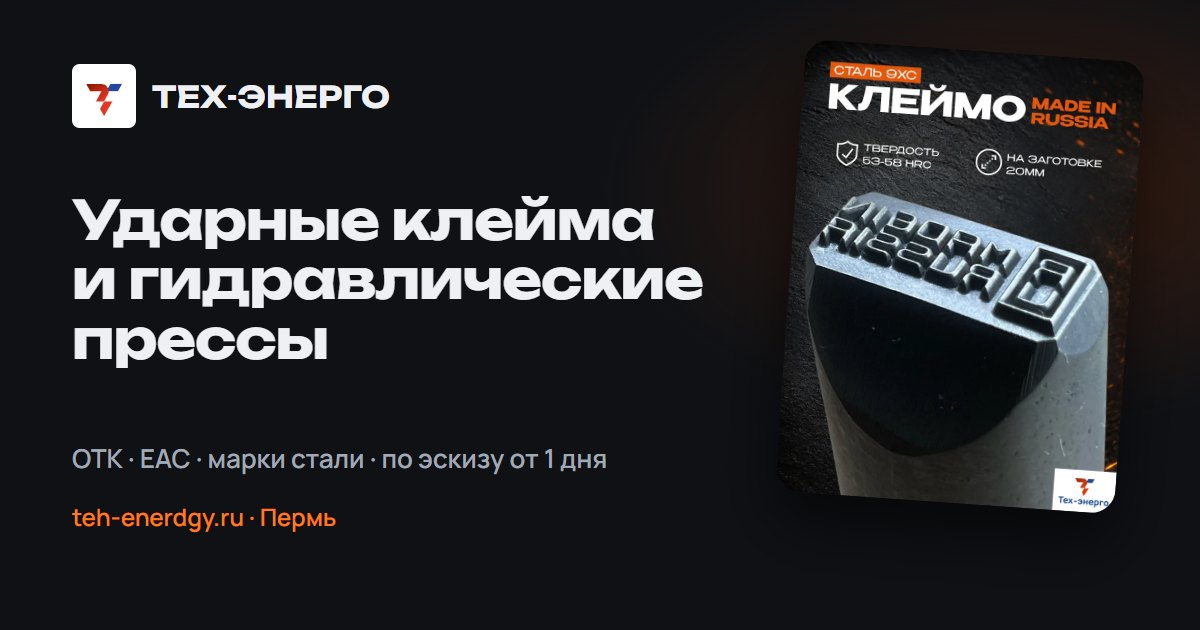
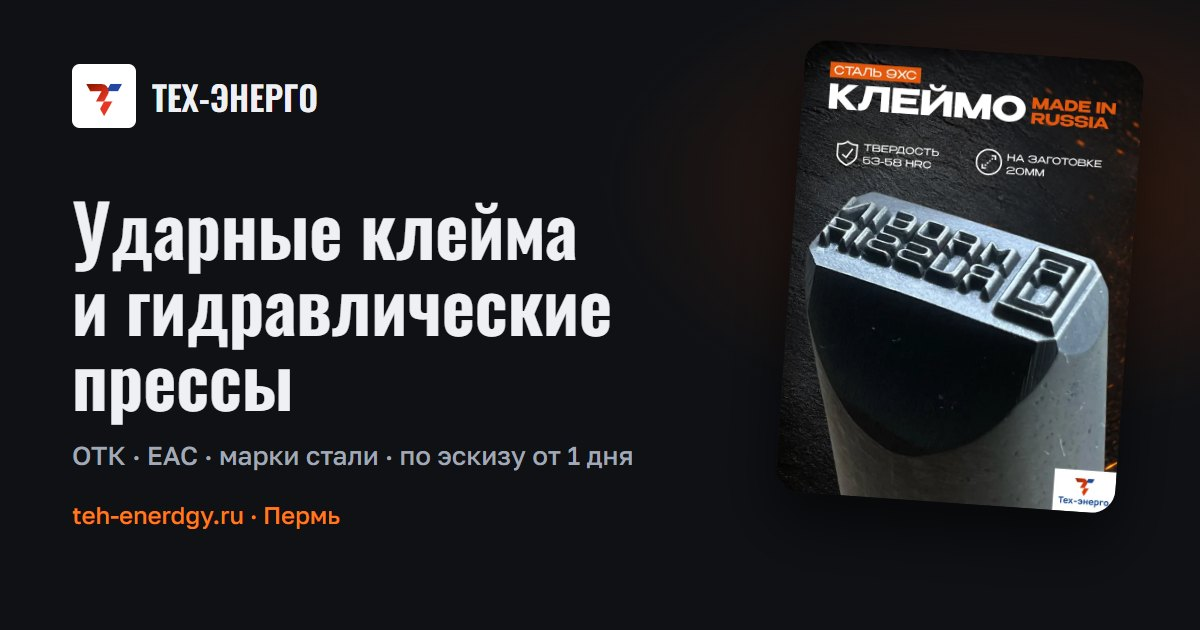
Шрифты Oswald + Golos Text вместо Unbounded/Manrope; MAX вместо WhatsApp
- Заголовки — Oswald, текст — Golos Text; подстроены кегли и трекинг, OG-картинка пересобрана
- Кнопки WhatsApp заменены на MAX, порядок: MAX, затем Telegram
- Ссылка MAX временно ведёт на max.ru (TODO в data/company.json)

Changed region(s): [[0.0617, 0.3016, 0.5858, 0.754], [0.1233, 0.1206, 0.3392, 0.181], [0.0617, 0.7841, 0.2775, 0.8444]]

diff --git a/src/css/style.css b/src/css/style.css
@@ -22,8 +22,8 @@
   --r-lg: 28px;
   --shadow: 0 1px 2px rgba(16, 20, 28, .04), 0 8px 24px -8px rgba(16, 20, 28, .12);
   --shadow-lg: 0 30px 60px -20px rgba(16, 20, 28, .35);
-  --f-head: 'Unbounded', 'Manrope', system-ui, sans-serif;
-  --f-body: 'Manrope', system-ui, -apple-system, 'Segoe UI', Roboto, sans-serif;
+  --f-head: 'Oswald', 'Arial Narrow', system-ui, sans-serif;
+  --f-body: 'Golos Text', system-ui, -apple-system, 'Segoe UI', Roboto, sans-serif;
   --wrap: 1240px;
   --hdr: 72px;
 }
@@ -36,10 +36,10 @@ img { max-width: 100%; height: auto; display: block; }
 a { color: inherit; }
 button, input, select, textarea { font: inherit; color: inherit; }
 svg { width: 1em; height: 1em; fill: none; stroke: currentColor; stroke-width: 2; stroke-linecap: round; stroke-linejoin: round; flex: none; }
-h1, h2, h3 { font-family: var(--f-head); font-weight: 600; line-height: 1.12; letter-spacing: -.02em; margin: 0 0 .5em; }
-h1 { font-size: clamp(32px, 4.6vw, 58px); }
-h2 { font-size: clamp(26px, 3.4vw, 42px); }
-h3 { font-size: 19px; letter-spacing: -.01em; }
+h1, h2, h3 { font-family: var(--f-head); font-weight: 600; line-height: 1.08; letter-spacing: .005em; margin: 0 0 .5em; }
+h1 { font-size: clamp(36px, 5.4vw, 72px); }
+h2 { font-size: clamp(30px, 3.8vw, 50px); }
+h3 { font-size: 21px; font-weight: 500; letter-spacing: .01em; }
 p { margin: 0 0 1em; }
 :focus-visible { outline: 3px solid var(--blue-l); outline-offset: 3px; border-radius: 6px; }
 .wrap { width: 100%; max-width: var(--wrap); margin: 0 auto; padding: 0 24px; }
@@ -62,7 +62,7 @@ p { margin: 0 0 1em; }
 .btn--ozon { background: var(--ozon); }
 .btn--ozon:hover { background: #0047cc; box-shadow: 0 10px 24px -10px rgba(0, 91, 255, .7); }
 .btn--tg { background: #2aa5e0; } .btn--tg:hover { background: #1b8fc7; box-shadow: none; }
-.btn--wa { background: #25b25c; } .btn--wa:hover { background: #1c964c; box-shadow: none; }
+.btn--max { background: #5b4cf0; } .btn--max:hover { background: #4636d6; box-shadow: none; }
 .link { background: none; border: 0; padding: 0; color: var(--red); text-decoration: underline; cursor: pointer; font-weight: 600; }
 .icon-btn { display: inline-grid; place-items: center; width: 42px; height: 42px; border-radius: 50%; border: 0; background: rgba(255, 255, 255, .07); color: inherit; cursor: pointer; transition: background .2s; text-decoration: none; }
 .icon-btn svg { font-size: 20px; }
@@ -75,7 +75,7 @@ p { margin: 0 0 1em; }
 .logo { display: flex; align-items: center; gap: 10px; text-decoration: none; flex: none; }
 .logo-mark { width: 38px; height: 34px; }
 .logo__txt { display: flex; flex-direction: column; line-height: 1.05; }
-.logo__txt b { font-family: var(--f-head); font-size: 17px; font-weight: 700; letter-spacing: .01em; }
+.logo__txt b { font-family: var(--f-head); font-size: 21px; font-weight: 600; letter-spacing: .03em; }
 .logo__txt small { font-size: 11px; color: var(--on-dark-2); letter-spacing: .08em; text-transform: uppercase; margin-top: 3px; }
 .nav { display: flex; align-items: center; gap: 4px; margin-right: auto; }
 .nav a { white-space: nowrap; padding: 8px 12px; border-radius: 999px; text-decoration: none; font-weight: 600; font-size: 14.5px; color: var(--on-dark); opacity: .85; transition: opacity .2s, background .2s; }
@@ -120,7 +120,7 @@ p { margin: 0 0 1em; }
 .hl { background: linear-gradient(90deg, var(--fire), var(--red)); -webkit-background-clip: text; background-clip: text; color: transparent; }
 .hero__cta { display: flex; flex-wrap: wrap; gap: 12px; margin: 30px 0 0; }
 .hero__facts { list-style: none; margin: 44px 0 0; padding: 26px 0 0; border-top: 1px solid var(--line-dark); display: grid; grid-template-columns: repeat(4, 1fr); gap: 20px; }
-.hero__facts b { display: block; font-family: var(--f-head); font-size: clamp(20px, 2vw, 26px); font-weight: 600; }
+.hero__facts b { display: block; font-family: var(--f-head); font-size: clamp(24px, 2.4vw, 32px); font-weight: 500; }
 .hero__facts i { font-style: normal; color: #ffb21a; font-size: .8em; margin-left: 2px; }
 .hero__facts span { font-size: 13px; color: var(--on-dark-2); line-height: 1.35; display: block; margin-top: 4px; }
 .hero__vis { position: relative; height: 560px; }
@@ -139,7 +139,7 @@ p { margin: 0 0 1em; }
 @keyframes spark { 0% { opacity: 1; transform: translate(0, 0); } 100% { opacity: 0; transform: translate(var(--x, 110px), -220px); } }
 .ticker { border-top: 1px solid var(--line-dark); overflow: hidden; padding: 18px 0; mask-image: linear-gradient(90deg, transparent, #000 10%, #000 90%, transparent); }
 .ticker__track { display: flex; gap: 44px; width: max-content; animation: tick 60s linear infinite; }
-.ticker span { font-family: var(--f-head); font-weight: 500; font-size: 15px; color: var(--on-dark-2); white-space: nowrap; display: inline-flex; align-items: center; gap: 44px; }
+.ticker span { font-family: var(--f-head); font-weight: 500; font-size: 17px; letter-spacing: .04em; text-transform: uppercase; color: var(--on-dark-2); white-space: nowrap; display: inline-flex; align-items: center; gap: 44px; }
 .ticker span::after { content: ''; width: 6px; height: 6px; background: var(--red); transform: rotate(45deg); }
 @keyframes tick { to { transform: translateX(-50%); } }
 
@@ -150,9 +150,9 @@ p { margin: 0 0 1em; }
 .dir--stamps { background: linear-gradient(160deg, #1c1f26, #0f1115); color: var(--on-dark); }
 .dir--press { background: linear-gradient(160deg, #e9eefb, #d3ddf5); color: var(--ink); }
 .dir__txt { position: relative; z-index: 2; max-width: 52%; }
-.dir__num { font-family: var(--f-head); font-size: 14px; color: var(--red); font-weight: 600; }
+.dir__num { font-family: var(--f-head); font-size: 16px; color: var(--red); font-weight: 600; }
 .dir--press .dir__num { color: var(--blue); }
-.dir h3 { font-size: clamp(24px, 2.4vw, 32px); margin: 14px 0 12px; }
+.dir h3 { font-size: clamp(30px, 3vw, 40px); font-weight: 600; margin: 14px 0 12px; }
 .dir p { opacity: .82; font-size: 15.5px; }
 .dir__more { display: inline-flex; align-items: center; gap: 8px; font-weight: 700; margin-top: 8px; }
 .dir:hover .dir__more svg { transform: translateX(4px); }
@@ -178,7 +178,7 @@ p { margin: 0 0 1em; }
 .tag--sale { background: #f1117e; color: #fff; }
 .card__body { padding: 16px 16px 18px; display: flex; flex-direction: column; gap: 6px; flex: 1; }
 .card__cat { font-size: 12px; font-weight: 700; letter-spacing: .06em; text-transform: uppercase; color: var(--ink-3); }
-.card__title { font-family: var(--f-head); font-size: 17px; font-weight: 600; margin: 0; line-height: 1.25; }
+.card__title { font-family: var(--f-head); font-size: 20px; font-weight: 500; margin: 0; line-height: 1.2; letter-spacing: .01em; }
 .card__title a { text-decoration: none; }
 .card__title a::after { content: ''; position: absolute; inset: 0; }
 .card { position: relative; }
@@ -190,9 +190,9 @@ p { margin: 0 0 1em; }
 .rating--lg { font-size: 16px; margin-bottom: 18px; }
 .card__foot { margin-top: auto; padding-top: 10px; display: flex; align-items: center; justify-content: space-between; gap: 8px; }
 .card__foot .btn { position: relative; z-index: 2; }
-.price b { font-family: var(--f-head); font-size: 19px; font-weight: 600; }
+.price b { font-family: var(--f-head); font-size: 22px; font-weight: 500; }
 .price s { color: var(--ink-3); font-size: 13px; margin-left: 8px; }
-.price--lg b { font-size: 34px; }
+.price--lg b { font-size: 40px; }
 .price--lg small { display: block; color: var(--ink-3); font-size: 13px; margin-top: 2px; }
 
 /* ---------- конструктор ---------- */
@@ -216,7 +216,7 @@ p { margin: 0 0 1em; }
 .fld--dark input, .fld--dark select { background: var(--dark-3); border-color: var(--line-dark); color: var(--on-dark); }
 .fld--dark input[type="range"] { padding: 0; border: 0; background: none; accent-color: var(--red); height: 34px; }
 .fld output { color: #fff; }
-#c-text { font-family: var(--f-head); font-size: 22px; letter-spacing: .04em; }
+#c-text { font-family: var(--f-head); font-size: 24px; font-weight: 500; letter-spacing: .06em; }
 .seg { border: 0; padding: 0; margin: 0; display: flex; flex-wrap: wrap; gap: 8px; }
 .seg legend { font-size: 14px; font-weight: 600; color: var(--on-dark-2); margin-bottom: 8px; padding: 0; }
 .seg label { cursor: pointer; }
@@ -245,7 +245,7 @@ p { margin: 0 0 1em; }
 .bx__ico { display: inline-grid; place-items: center; width: 48px; height: 48px; border-radius: 14px; background: rgba(229, 55, 36, .1); color: var(--red); margin-bottom: 22px; }
 .bx__ico svg { font-size: 24px; }
 .bx--big { grid-column: span 2; grid-row: span 2; background: var(--dark); color: var(--on-dark); display: flex; flex-direction: column; }
-.bx--big h3 { font-size: 28px; }
+.bx--big h3 { font-size: 34px; font-weight: 600; }
 .bx--big p { color: var(--on-dark-2); max-width: 360px; }
 .bx__big { margin-top: auto; font-family: var(--f-head); font-weight: 700; font-size: clamp(80px, 11vw, 150px); line-height: .9; background: linear-gradient(90deg, var(--fire), var(--red)); -webkit-background-clip: text; background-clip: text; color: transparent; padding-top: 30px; }
 .bx--accent { background: var(--blue); color: #fff; }
@@ -255,7 +255,7 @@ p { margin: 0 0 1em; }
 /* ---------- шаги ---------- */
 .steps { list-style: none; margin: 0; padding: 0; display: grid; grid-template-columns: repeat(4, 1fr); gap: 16px; counter-reset: s; }
 .steps li { position: relative; padding: 28px 24px; border-radius: var(--r-lg); background: var(--surface); box-shadow: var(--shadow); }
-.steps b { font-family: var(--f-head); font-size: 44px; font-weight: 700; color: transparent; -webkit-text-stroke: 1.5px var(--red); display: block; line-height: 1; margin-bottom: 18px; }
+.steps b { font-family: var(--f-head); font-size: 54px; font-weight: 700; color: transparent; -webkit-text-stroke: 1.5px var(--red); display: block; line-height: 1; margin-bottom: 18px; }
 .steps p { color: var(--ink-2); margin: 0; font-size: 15px; }
 .steps li:not(:last-child)::after { content: ''; position: absolute; top: 50px; right: -14px; width: 12px; height: 12px; border-top: 2px solid var(--line); border-right: 2px solid var(--line); transform: rotate(45deg); }
 
@@ -403,16 +403,16 @@ p { margin: 0 0 1em; }
 
 .press-hero { background: linear-gradient(160deg, #0f1a3a 0%, #142554 50%, #0f1115 100%); color: var(--on-dark); padding: calc(var(--hdr) + 48px) 0 72px; overflow: hidden; }
 .press-hero__in { display: grid; grid-template-columns: minmax(0, 1.2fr) minmax(0, .8fr); gap: 48px; align-items: center; }
-.press-hero h1 { font-size: clamp(26px, 4vw, 52px); hyphens: auto; -webkit-hyphens: auto; }
+.press-hero h1 { font-size: clamp(32px, 4.6vw, 62px); hyphens: auto; -webkit-hyphens: auto; }
 .press-hero__img { background: #e9eefb; border-radius: var(--r-lg); padding: 18px; transform: rotate(2deg); box-shadow: var(--shadow-lg); }
 .press-hero__img img { border-radius: 14px; }
 .press-kpi { list-style: none; padding: 0; margin: 32px 0 0; display: grid; grid-template-columns: repeat(4, 1fr); gap: 12px; }
 .press-kpi li { background: rgba(255, 255, 255, .06); border: 1px solid var(--line-dark); border-radius: 16px; padding: 16px; }
-.press-kpi b { display: block; font-family: var(--f-head); font-size: 22px; font-weight: 600; }
+.press-kpi b { display: block; font-family: var(--f-head); font-size: 28px; font-weight: 500; }
 .press-kpi span { font-size: 13px; color: var(--on-dark-2); }
 .uses { display: grid; grid-template-columns: repeat(5, 1fr); gap: 14px; }
 .use { background: var(--surface); border-radius: var(--r-lg); padding: 24px; box-shadow: var(--shadow); }
-.use b { font-family: var(--f-head); color: var(--blue); font-size: 14px; }
+.use b { font-family: var(--f-head); color: var(--blue); font-size: 16px; }
 .use h3 { margin: 14px 0 8px; }
 .use p { color: var(--ink-2); font-size: 14.5px; margin: 0; }
 .press-ctrl { display: grid; grid-template-columns: 1.1fr .9fr; gap: clamp(32px, 5vw, 72px); align-items: center; }
@@ -460,7 +460,7 @@ p { margin: 0 0 1em; }
 @media (max-width: 720px) {
   :root { --hdr: 64px; }
   .wrap { padding: 0 16px; }
-  .hdr__cta, .hdr__act .icon-btn[aria-label*="WhatsApp"] { display: none; }
+  .hdr__cta, .hdr__tg { display: none; }
   .logo__txt small { display: none; }
   .hero__facts { grid-template-columns: 1fr 1fr; }
   .hero__vis { height: 340px; }
@@ -496,9 +496,9 @@ p { margin: 0 0 1em; }
   .hero__cta .btn { flex: 1 1 100%; }
 }
 @media (max-width: 420px) {
-  h1 { font-size: 27px; }
-  .hero h1 { font-size: 28px; }
-  h2 { font-size: 24px; }
+  h1 { font-size: 32px; }
+  .hero h1 { font-size: 36px; }
+  h2 { font-size: 28px; }
 }
 @media (prefers-reduced-motion: reduce) {
   *, *::before, *::after { animation: none !important; transition: none !important; scroll-behavior: auto !important; }

diff --git a/scripts/build.js b/scripts/build.js
@@ -31,7 +31,7 @@ const I = {
   arrow: '<svg viewBox="0 0 24 24" aria-hidden="true"><path d="M5 12h14M13 6l6 6-6 6"/></svg>',
   phone: '<svg viewBox="0 0 24 24" aria-hidden="true"><path d="M5 4h4l2 5-2.5 1.5a11 11 0 0 0 5 5L15 13l5 2v4a2 2 0 0 1-2 2A16 16 0 0 1 3 6a2 2 0 0 1 2-2"/></svg>',
   tg: '<svg viewBox="0 0 24 24" aria-hidden="true"><path d="M21 4 3 11l6 2 2 6 3-4 5 4z"/><path d="m9 13 12-9"/></svg>',
-  wa: '<svg viewBox="0 0 24 24" aria-hidden="true"><path d="M4 20l1.3-4A8 8 0 1 1 8 18.7z"/><path d="M9 9.5c.3 2 2.5 4.2 4.5 4.5l1-1.2 2 .9c-.3 1.3-1.4 2-2.7 1.8A7 7 0 0 1 8 10.2c-.2-1.3.5-2.4 1.8-2.7l.9 2z"/></svg>',
+  max: '<svg viewBox="0 0 24 24" aria-hidden="true"><path d="M12 3a9 9 0 0 1 0 18c-1.6 0-3.1-.4-4.4-1.2L3 21l1.2-4.4A9 9 0 0 1 12 3z"/><path d="M8 15V9l4 4 4-4v6"/></svg>',
   vk: '<svg viewBox="0 0 24 24" aria-hidden="true"><path d="M3 7h3.2c.4 3 1.8 5 3.3 5.4V7h3v3c1.4-.2 2.7-1.6 3.4-3H19c-.5 2-2 3.6-3.2 4.3C17 12 18.8 13.6 19.5 16h-3.3c-.6-1.5-1.9-2.8-3.7-3v3h-.4C7 16 3.4 12.5 3 7z"/></svg>',
   star: '<svg viewBox="0 0 24 24" aria-hidden="true"><path d="m12 3 2.7 5.6 6.1.9-4.4 4.3 1 6.1L12 17l-5.4 2.9 1-6.1-4.4-4.3 6.1-.9z"/></svg>',
   check: '<svg viewBox="0 0 24 24" aria-hidden="true"><path d="m5 12 4 4 10-10"/></svg>',
@@ -82,7 +82,7 @@ function layout({ title, description, canonical, body, jsonld = [], ogImage = '/
 <link rel="apple-touch-icon" href="/img/site/apple-touch-icon.png">
 <link rel="preconnect" href="https://fonts.googleapis.com">
 <link rel="preconnect" href="https://fonts.gstatic.com" crossorigin>
-<link href="https://fonts.googleapis.com/css2?family=Manrope:wght@400;500;600;700;800&family=Unbounded:wght@500;600;700&display=swap" rel="stylesheet">
+<link href="https://fonts.googleapis.com/css2?family=Golos+Text:wght@400;500;600;700&family=Oswald:wght@500;600;700&display=swap" rel="stylesheet">
 <link rel="stylesheet" href="/css/style.css?v=${BUILD_ID}">
 ${jsonld.map(j => `<script type="application/ld+json">${JSON.stringify(j)}</script>`).join('\n')}
 </head>
@@ -113,8 +113,8 @@ function header() {
     </nav>
     <div class="hdr__act">
       <a class="hdr__phone" href="tel:${C.phoneRaw}">${C.phone}</a>
-      <a class="icon-btn" href="${C.telegram}" target="_blank" rel="noopener" aria-label="Написать в Telegram">${I.tg}</a>
-      <a class="icon-btn" href="${C.whatsapp}" target="_blank" rel="noopener" aria-label="Написать в WhatsApp">${I.wa}</a>
+      <a class="icon-btn" href="${C.max}" target="_blank" rel="noopener" aria-label="Написать в MAX">${I.max}</a>
+      <a class="icon-btn hdr__tg" href="${C.telegram}" target="_blank" rel="noopener" aria-label="Написать в Telegram">${I.tg}</a>
       <button class="btn btn--sm hdr__cta" type="button" data-order>Заказать</button>
       <button class="icon-btn burger" type="button" id="burger" aria-label="Меню" aria-expanded="false" aria-controls="nav">${I.menu}</button>
     </div>
@@ -146,8 +146,8 @@ function footer() {
         <li><span>${I.pin}${C.address}</span></li>
       </ul>
       <div class="ftr__soc">
+        <a class="icon-btn" href="${C.max}" target="_blank" rel="noopener" aria-label="MAX">${I.max}</a>
         <a class="icon-btn" href="${C.telegram}" target="_blank" rel="noopener" aria-label="Telegram">${I.tg}</a>
-        <a class="icon-btn" href="${C.whatsapp}" target="_blank" rel="noopener" aria-label="WhatsApp">${I.wa}</a>
         <a class="icon-btn" href="${C.vk}" target="_blank" rel="noopener" aria-label="ВКонтакте">${I.vk}</a>
       </div>
     </div>
@@ -190,7 +190,7 @@ function orderModal() {
     <h2 id="order-title">Заявка</h2>
     <p class="modal__sub" id="order-sub">Перезвоним в рабочее время, уточним детали и сроки.</p>
     ${leadForm({ id: 'modal', compact: true })}
-    <p class="modal__alt">Быстрее в мессенджере: <a href="${C.telegram}" target="_blank" rel="noopener">Telegram</a> · <a href="${C.whatsapp}" target="_blank" rel="noopener">WhatsApp</a></p>
+    <p class="modal__alt">Быстрее в мессенджере: <a href="${C.max}" target="_blank" rel="noopener">MAX</a> · <a href="${C.telegram}" target="_blank" rel="noopener">Telegram</a></p>
   </div>
 </div>`;
 }
@@ -433,8 +433,8 @@ function home() {
         <li><span>${I.pin}${C.address}</span></li>
       </ul>
       <div class="contacts__msg">
+        <a class="btn btn--max" href="${C.max}" target="_blank" rel="noopener">${I.max}MAX</a>
         <a class="btn btn--tg" href="${C.telegram}" target="_blank" rel="noopener">${I.tg}Telegram</a>
-        <a class="btn btn--wa" href="${C.whatsapp}" target="_blank" rel="noopener">${I.wa}WhatsApp</a>
       </div>
     </div>
     <div class="contacts__form reveal">${leadForm({ id: 'contacts', title: 'Заявка на изготовление', withConfig: true })}</div>

diff --git a/src/js/main.js b/src/js/main.js
@@ -190,7 +190,7 @@
       const g = el('g', isDie ? { transform: `translate(${2 * cx} 0) scale(-1 1)`, filter: 'url(#f-raise)' } : { filter: 'url(#f-engrave)' }, root);
       const color = isDie ? '#c9ced6' : '#5d646e';
       const fontPx = hmm * pxPerMm / 0.72; // высота заглавной ≈ 0.72 кегля
-      const t = el('text', { x: cx, y: cy, 'text-anchor': 'middle', 'dominant-baseline': 'central', 'font-family': 'Manrope, Arial, sans-serif', 'font-weight': 800, 'font-size': fontPx, fill: color }, g);
+      const t = el('text', { x: cx, y: cy, 'text-anchor': 'middle', 'dominant-baseline': 'central', 'font-family': 'Oswald, "Arial Narrow", sans-serif', 'font-weight': 600, 'font-size': fontPx, fill: color }, g);
       t.textContent = text;
       let w = t.getComputedTextLength();
       const capH = hmm * pxPerMm;

diff --git a/README.md b/README.md
@@ -49,6 +49,7 @@ Ozon закрыт антиботом, поэтому выгрузка делае
 
 ## Что стоит уточнить у клиента
 
+- **Ссылка на MAX** — сейчас кнопки MAX ведут на главную max.ru (поле `max` в `data/company.json`).
 - Фото с производства (цех, лазер, прессы в работе) — сейчас используются фото товаров с Ozon.
 - Цена пресса: на Ozon 698 236 ₽, в ВК в комментарии «от 750 000 ₽ в зависимости от комплектации».
 - Ссылки на магазины Wildberries и Яндекс Маркет (в ВК сказано, что клейма продаются и там).
